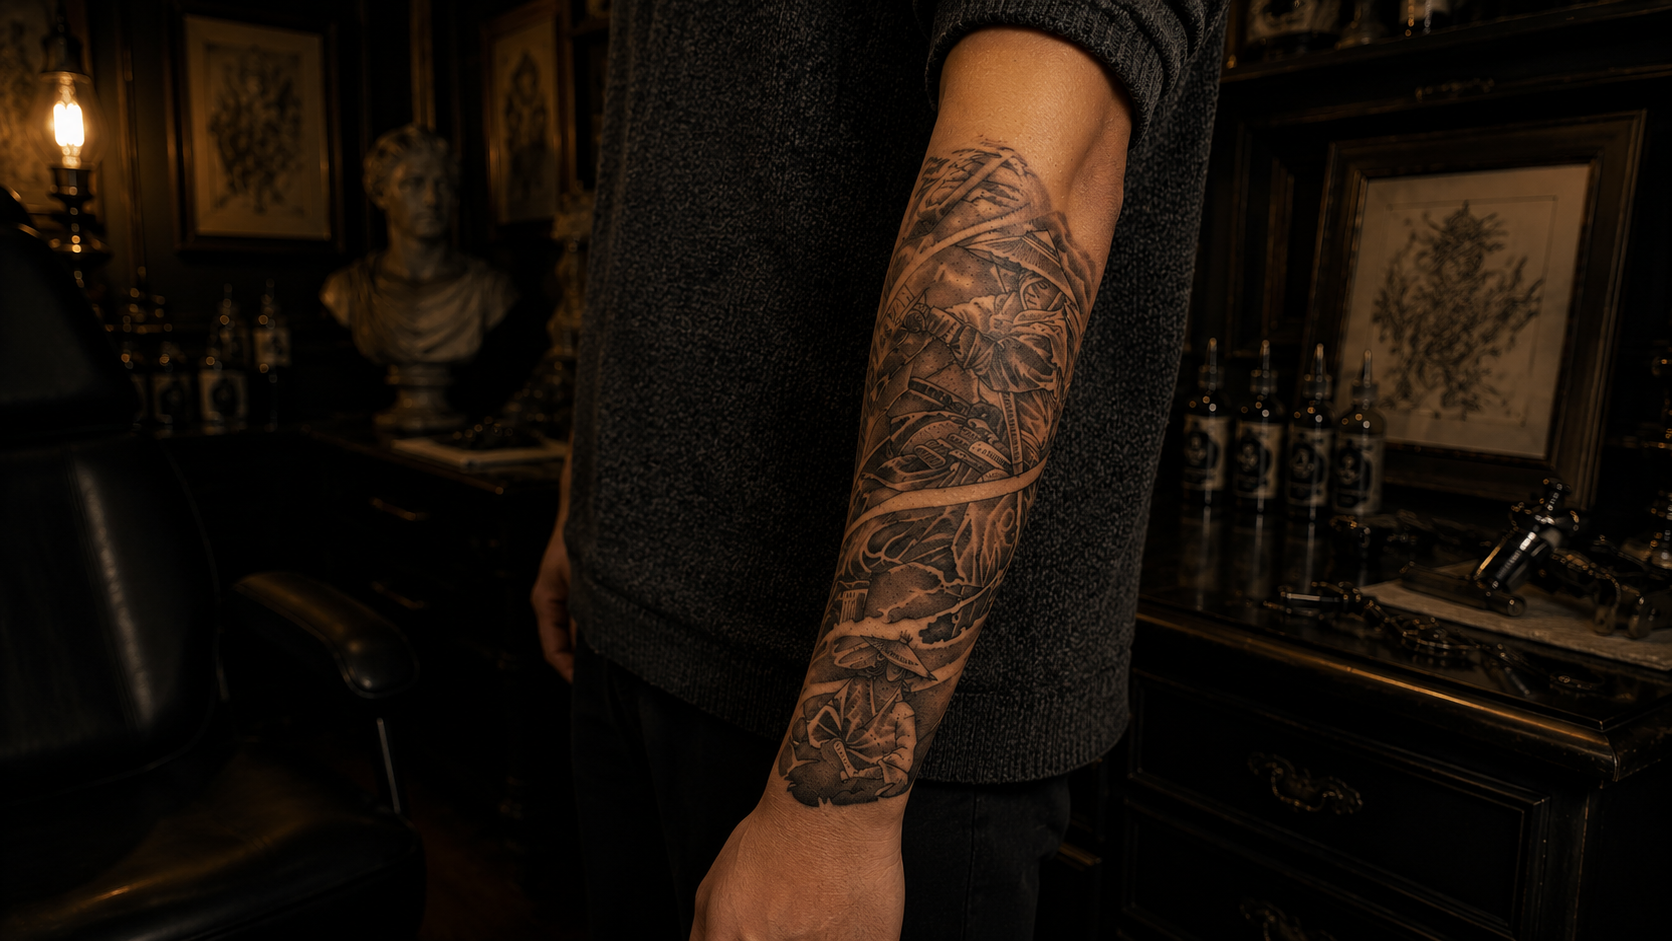
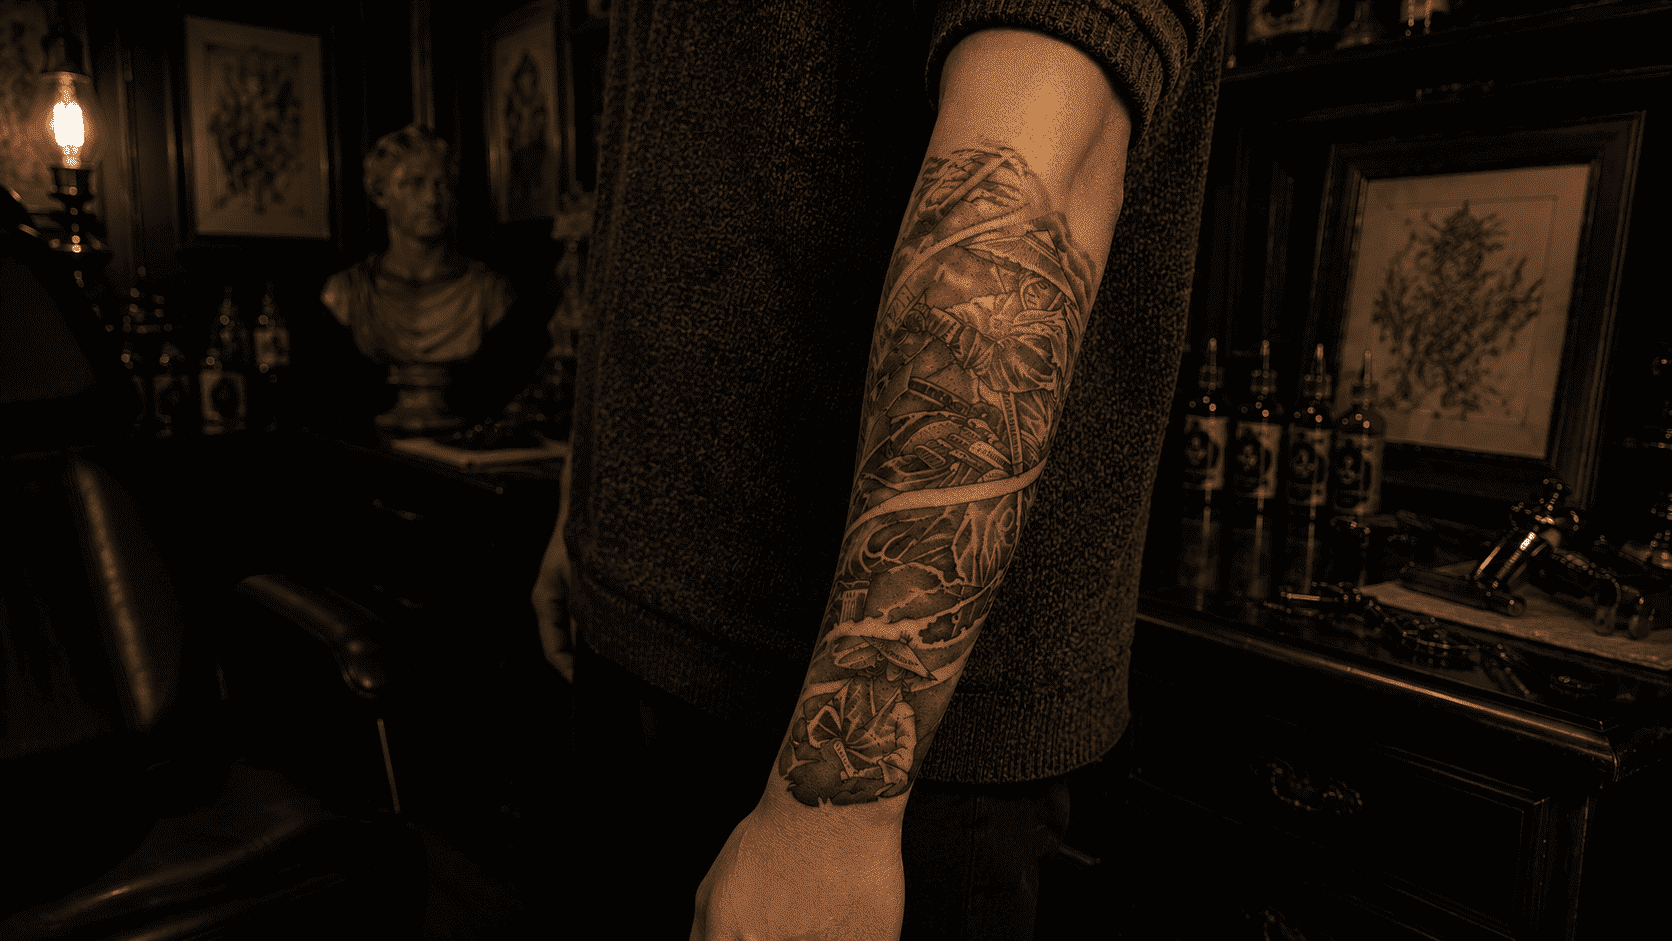
Update: Artist images converted to jpg and paths updated

diff --git a/index.html b/index.html
@@ -425,7 +425,7 @@
                 <!-- Artist 1 -->
                 <div class="artist-card">
                     <div class="artist-image-box">
-                        <img src="./images/artist_alessandro_portrait_1778309872557.png" alt="Alessandro"
+                        <img src="./images/artist_alessandro_portrait_1778309872557.jpg" alt="Alessandro"
                             class="artist-img">
                     </div>
                     <div class="artist-info">
@@ -437,7 +437,7 @@
                 <!-- Artist 2 -->
                 <div class="artist-card">
                     <div class="artist-image-box">
-                        <img src="./images/artist_sofia_portrait_1778309896193.png" alt="Sofia" class="artist-img">
+                        <img src="./images/artist_sofia_portrait_1778309896193.jpg" alt="Sofia" class="artist-img">
                     </div>
                     <div class="artist-info">
                         <h3 class="artist-name">SOFIA</h3>
@@ -448,7 +448,7 @@
                 <!-- Artist 3 -->
                 <div class="artist-card">
                     <div class="artist-image-box">
-                        <img src="./images/artist_giulio_portrait_1778309920553.png" alt="Giulio" class="artist-img">
+                        <img src="./images/artist_giulio_portrait_1778309920553.jpg" alt="Giulio" class="artist-img">
                     </div>
                     <div class="artist-info">
                         <h3 class="artist-name">GIULIO</h3>
@@ -459,7 +459,7 @@
                 <!-- Artist 4 -->
                 <div class="artist-card">
                     <div class="artist-image-box">
-                        <img src="./images/artist_leonardo_portrait_1778309943164.png" alt="Leonardo"
+                        <img src="./images/artist_leonardo_portrait_1778309943164.jpg" alt="Leonardo"
                             class="artist-img">
                     </div>
                     <div class="artist-info">
